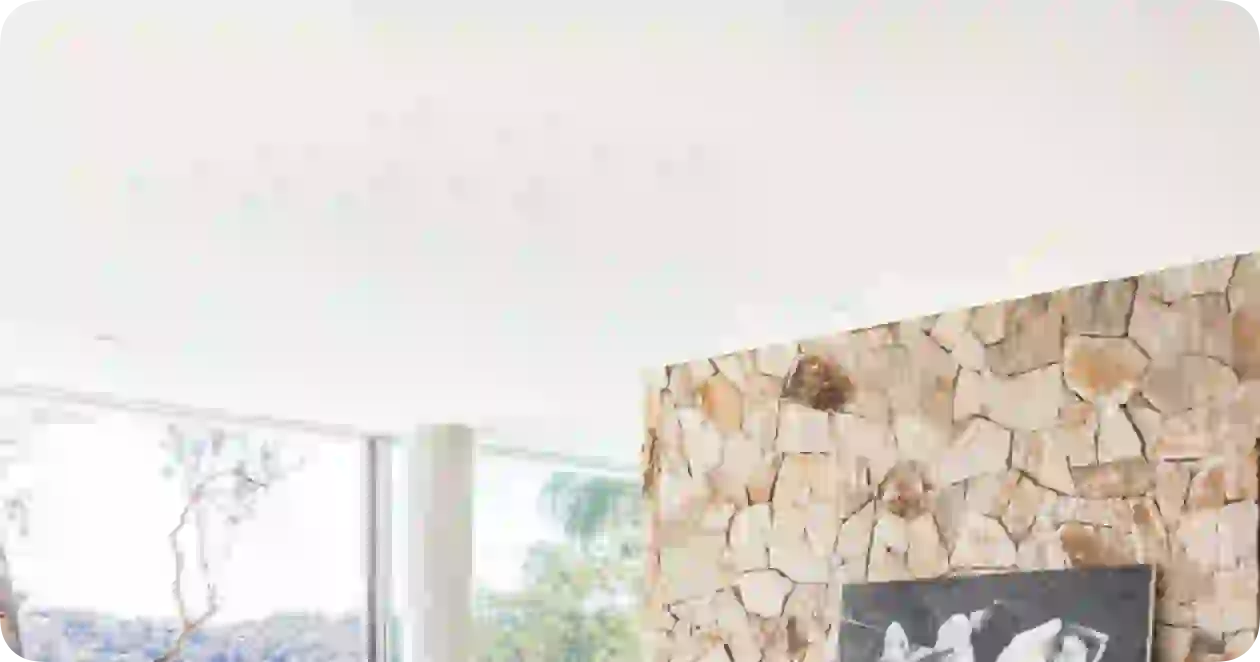
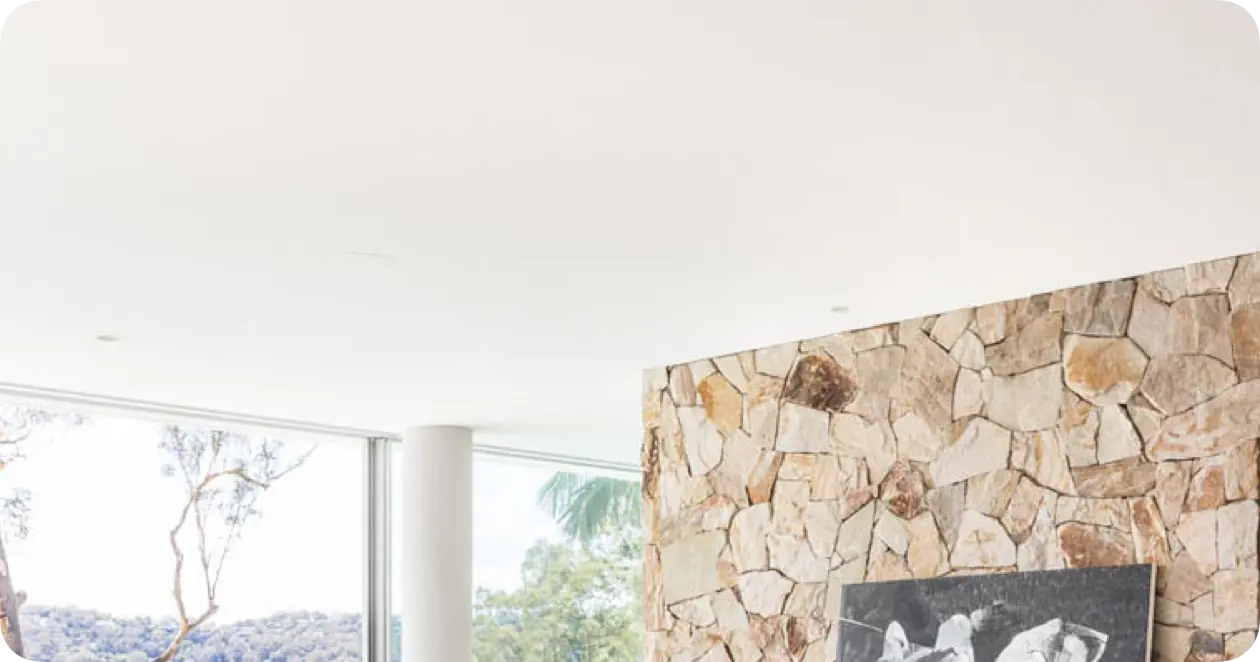
Улучшил качество картинок

diff --git a/index.html b/index.html
@@ -6,7 +6,7 @@
           content="width=device-width, initial-scale=1.0">
     <title>Яндекс.Дом</title>
     <link rel="preload" as="font" href="assets/lato.woff2" type="font/woff2" crossorigin="anonymous">
-    <script src="vendors/react-with-dom.js"></script>
+    
     <link rel="stylesheet" type="text/css" href="reset.css">
     <link rel="stylesheet" type="text/css" href="styles.css">
 </head>
